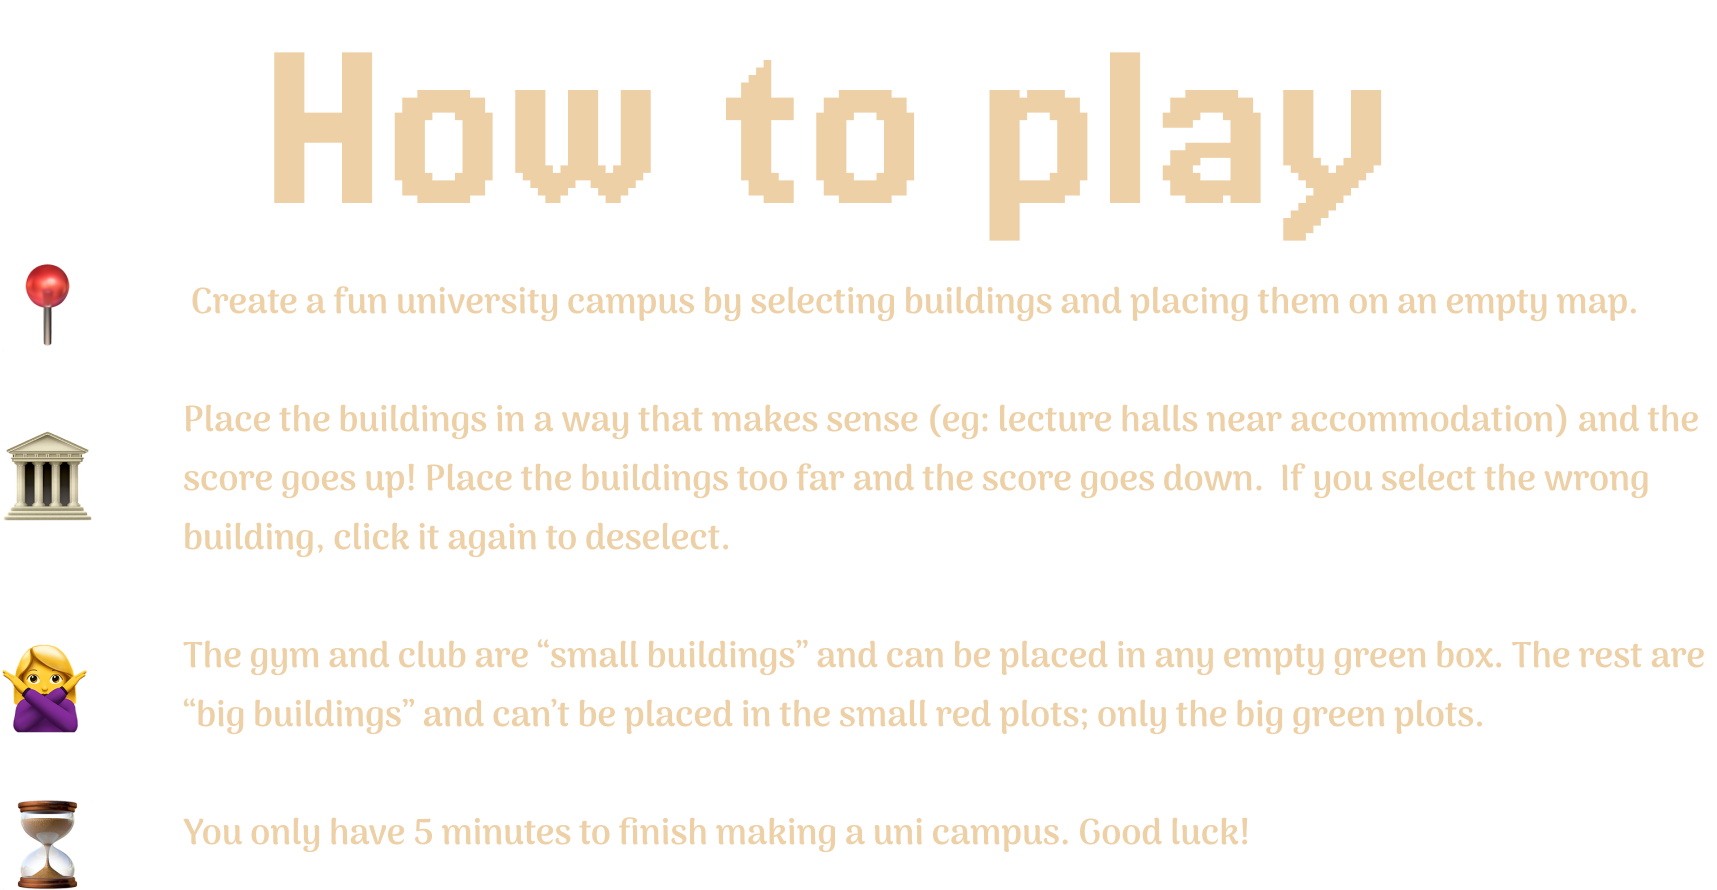
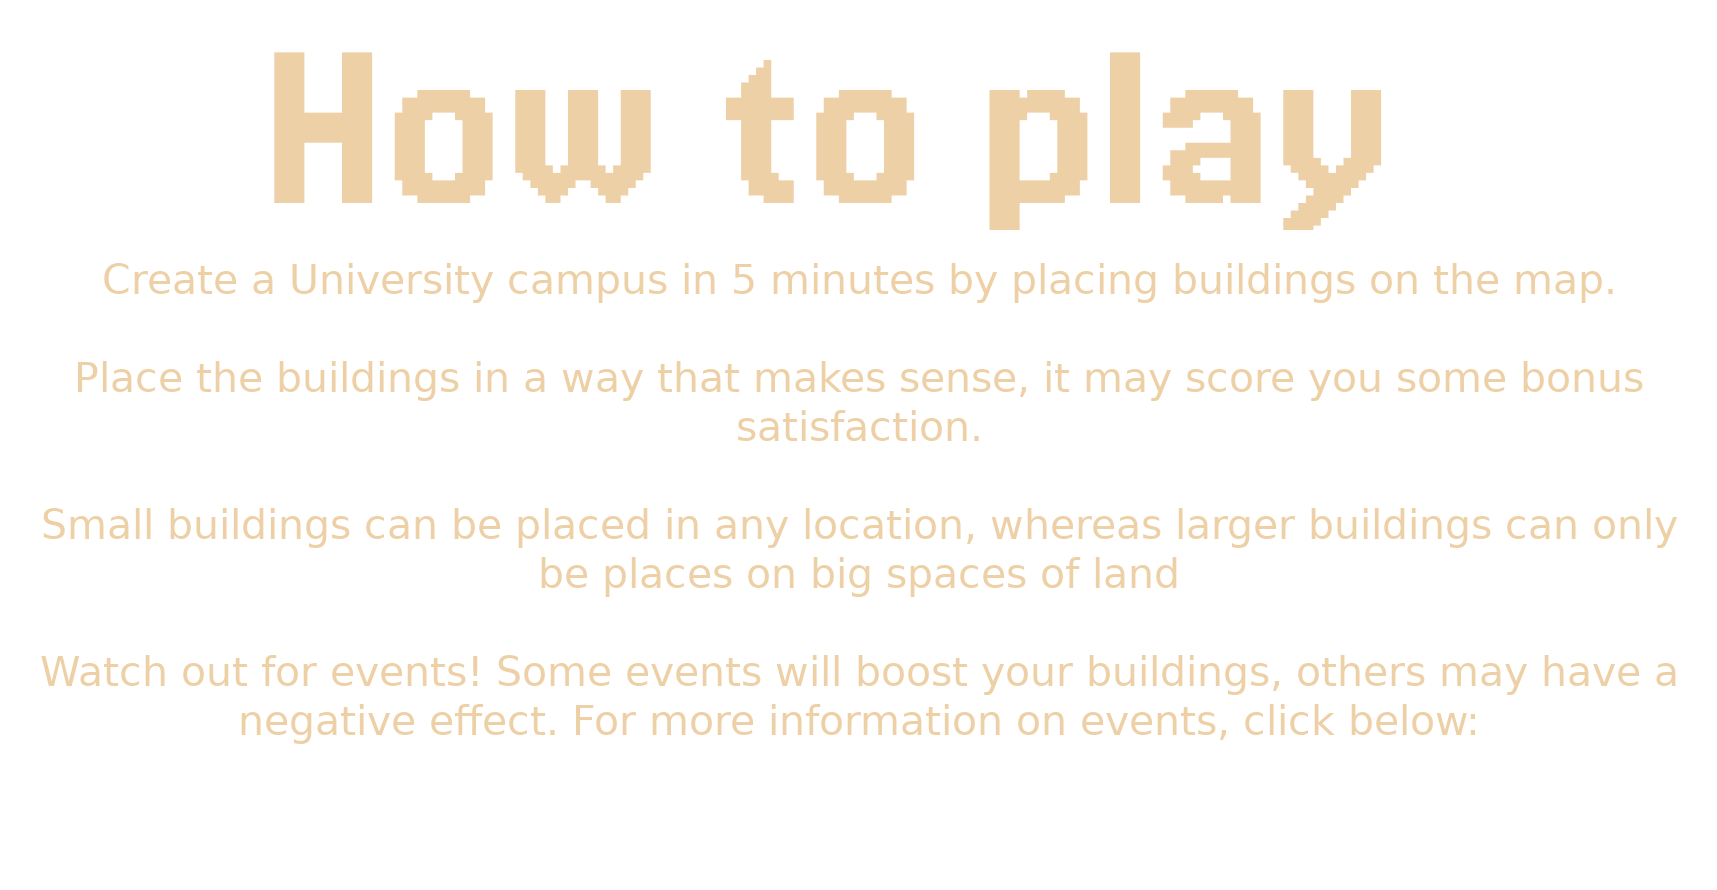
UI changes

diff --git a/core/src/main/java/com/unisim/game/Stages/TutorialStage.java b/core/src/main/java/com/unisim/game/Stages/TutorialStage.java
@@ -15,35 +15,70 @@ import com.unisim.game.main;
 public class TutorialStage extends Stage {
     private final main game;
 
+    // Buttons
+    private ImageButton backButtonTM;
+    private ImageButton eventsHelpButton;
 
-    /**Takes the player to {@code mainStage} from {@code tutorialStage}.*/
-    ImageButton backButtonTM;
+    // Image displayed for tutorial
+    private Image tutorialMenuText;
+
+    // State tracking
+    private boolean showingHowToPlay2 = false;
 
     public TutorialStage(main game) {
         this.game = game;
         initialize();
     }
-    /** Sets up the tutorial stage*/
-    public void initialize(){
-        // Sets up "back" button on tutorialStage
-            backButtonTM = new ImageButton(new TextureRegionDrawable(new TextureRegion(new Texture(Gdx.files.internal("buttons/BackButton.png")))));
+
+    /** Sets up the tutorial stage */
+    public void initialize() {
+        // Sets up "Back" button on tutorialStage
+        backButtonTM = new ImageButton(new TextureRegionDrawable(new TextureRegion(new Texture(Gdx.files.internal("buttons/BackNew.png")))));
         backButtonTM.addListener(new ClickListener() {
             @Override
             public void clicked(InputEvent event, float x, float y) {
-                game.setSceneId(1);
+                if (showingHowToPlay2) {
+                    tutorialMenuText.setDrawable(new TextureRegionDrawable(new TextureRegion(new Texture(Gdx.files.internal("text/HowToPlay.png")))));
+                    eventsHelpButton.setVisible(true);
+                    showingHowToPlay2 = false;
+                } else {
+                    game.setSceneId(1);
+                }
             }
         });
 
-        // Formats and adds button and text to tutorialStage.
-        backButtonTM.setPosition(Gdx.graphics.getWidth() / 2f - backButtonTM.getWidth() / 2,
-            Gdx.graphics.getHeight() / 2f - backButtonTM.getHeight() / 2);
-        Image tutorialMenuText = new Image(new Texture(Gdx.files.internal("text/HowToPlay.png")));
+        // Sets up "Events" button on tutorialStage
+        eventsHelpButton = new ImageButton(new TextureRegionDrawable(new TextureRegion(new Texture(Gdx.files.internal("buttons/EventsNew.png")))));
+        eventsHelpButton.addListener(new ClickListener() {
+            @Override
+            public void clicked(InputEvent event, float x, float y) {
+                tutorialMenuText.setDrawable(new TextureRegionDrawable(new TextureRegion(new Texture(Gdx.files.internal("text/HowToPlay2.png")))));
+                eventsHelpButton.setVisible(false);
+                showingHowToPlay2 = true;
+            }
+        });
+
+        // Sets up tutorial text image
+        tutorialMenuText = new Image(new Texture(Gdx.files.internal("text/HowToPlay.png")));
+
+        // Format and add buttons and text to the tutorial stage
         Table tutorialMenuTable = new Table();
         tutorialMenuTable.add(tutorialMenuText).width(1200f).height(700f);
         tutorialMenuTable.row();
-        tutorialMenuTable.add(backButtonTM);
-        tutorialMenuTable.setPosition(Gdx.graphics.getWidth() / 2f - tutorialMenuTable.getWidth() / 2,
-            Gdx.graphics.getHeight()/2f - tutorialMenuTable.getHeight() / 2);
+
+        // Add buttons in a sub-table for alignment
+        Table buttonTable = new Table();
+        buttonTable.add(backButtonTM).pad(10f);
+        buttonTable.add(eventsHelpButton).pad(10f);
+
+        tutorialMenuTable.add(buttonTable);
+
+        // Center the table on the screen
+        tutorialMenuTable.setPosition(
+            Gdx.graphics.getWidth() / 2f - tutorialMenuTable.getWidth() / 2,
+            Gdx.graphics.getHeight() / 2f - tutorialMenuTable.getHeight() / 2
+        );
+
         this.addActor(tutorialMenuTable);
     }
 }

diff --git a/core/src/main/java/com/unisim/game/Stages/MenuStage.java b/core/src/main/java/com/unisim/game/Stages/MenuStage.java
@@ -32,7 +32,7 @@ public class MenuStage extends Stage {
     private void initialize(){
 
         // Sets up "play" button on menuStage.
-        playImgButton = new ImageButton(new TextureRegionDrawable(new TextureRegion(new Texture(Gdx.files.internal("buttons/PlayButton.png")))));
+        playImgButton = new ImageButton(new TextureRegionDrawable(new TextureRegion(new Texture(Gdx.files.internal("buttons/PlayButtonNew.png")))));
         playImgButton.addListener(new ClickListener() {
             @Override
             public void clicked(InputEvent event, float x, float y) {
@@ -42,7 +42,7 @@ public class MenuStage extends Stage {
 
         // Sets up "leaderboard" button on menuStage.
 
-        leaderboardImgButton = new ImageButton(new TextureRegionDrawable(new TextureRegion(new Texture(Gdx.files.internal("buttons/Leaderboard.png")))));
+        leaderboardImgButton = new ImageButton(new TextureRegionDrawable(new TextureRegion(new Texture(Gdx.files.internal("buttons/LeaderboardNew.png")))));
         leaderboardImgButton.addListener(new ClickListener() {
             @Override
             public void clicked(InputEvent event, float x, float y) {
@@ -52,7 +52,7 @@ public class MenuStage extends Stage {
 
         // Sets up "acheivements" button on menuStage.
 
-        achievementsImgButton = new ImageButton(new TextureRegionDrawable(new TextureRegion(new Texture(Gdx.files.internal("buttons/Achievements.png")))));
+        achievementsImgButton = new ImageButton(new TextureRegionDrawable(new TextureRegion(new Texture(Gdx.files.internal("buttons/AchievementsNew.png")))));
         achievementsImgButton.addListener(new ClickListener() {
             @Override
             public void clicked(InputEvent event, float x, float y) {

diff --git a/core/src/main/java/com/unisim/game/Stages/MainStage.java b/core/src/main/java/com/unisim/game/Stages/MainStage.java
@@ -65,7 +65,7 @@ public class MainStage extends Stage {
 
     ParticleEffect rainEffect;
 
-    private float achievementAnimTime = 3f;
+    final float achievementAnimTime = 3f;
     private float animCurrentTime = 0f;
     private float xPos;
     private float animSpeed = 150;
@@ -224,8 +224,8 @@ public class MainStage extends Stage {
         timerTable.add(timeTextLabel);
 
         // Sets up pause and tutorial buttons.
-        pauseButton = new ImageButton(new TextureRegionDrawable(new TextureRegion(new Texture(Gdx.files.internal("buttons/PauseSquareButton.png")))));
-        tutorialButton = new ImageButton(new TextureRegionDrawable(new TextureRegion(new Texture(Gdx.files.internal("buttons/QuestionMark.png")))));
+        pauseButton = new ImageButton(new TextureRegionDrawable(new TextureRegion(new Texture(Gdx.files.internal("buttons/PauseNew.png")))));
+        tutorialButton = new ImageButton(new TextureRegionDrawable(new TextureRegion(new Texture(Gdx.files.internal("buttons/HelpNew.png")))));
         // Sets up listeners for the buttons, so the player can navigate between stages.
         pauseButton.addListener(new ClickListener() {
             @Override
@@ -245,7 +245,7 @@ public class MainStage extends Stage {
         // Formats mainStage
 
         miscTable = new Table();
-        miscTable.add(pauseButton);
+        miscTable.add(pauseButton).padLeft(50f);
         miscTable.add(tutorialButton);
         miscTable.row();
         miscTable.add(scoreTable);

diff --git a/core/src/main/java/com/unisim/game/Stages/PauseStage.java b/core/src/main/java/com/unisim/game/Stages/PauseStage.java
@@ -25,7 +25,7 @@ public class PauseStage extends Stage {
     /** Sets up the pause stage*/
     public void initialize(){
         // Sets up the "quit" button on pauseStage allowing the user to exit the application.
-        ImageButton quitButtonPM = new ImageButton(new TextureRegionDrawable(new TextureRegion(new Texture(Gdx.files.internal("buttons/Quit.png")))));
+        ImageButton quitButtonPM = new ImageButton(new TextureRegionDrawable(new TextureRegion(new Texture(Gdx.files.internal("buttons/QuitNew.png")))));
         quitButtonPM.addListener(new ClickListener() {
             @Override
             public void clicked(InputEvent event, float x, float y) {
@@ -34,7 +34,7 @@ public class PauseStage extends Stage {
         });
 
         // Sets up the "resume" button on pauseStage allowing user to continue playing the game.
-        playButtonPM = new ImageButton(new TextureRegionDrawable(new TextureRegion(new Texture(Gdx.files.internal("buttons/ResumeButton.png")))));
+        playButtonPM = new ImageButton(new TextureRegionDrawable(new TextureRegion(new Texture(Gdx.files.internal("buttons/ResumeNew.png")))));
         playButtonPM.addListener(new ClickListener() {
             @Override
             public void clicked(InputEvent event, float x, float y) {

diff --git a/core/src/main/java/com/unisim/game/Stages/EndTimeStage.java b/core/src/main/java/com/unisim/game/Stages/EndTimeStage.java
@@ -26,7 +26,7 @@ public class EndTimeStage extends Stage {
         // Sets up "Time up" text
         Image endTimeText = new Image(new Texture(Gdx.files.internal("text/TimeUpText.png")));
         // Sets up a quit button
-        ImageButton quitButtonTS = new ImageButton(new TextureRegionDrawable(new TextureRegion(new Texture("buttons/Quit.png"))));
+        ImageButton quitButtonTS = new ImageButton(new TextureRegionDrawable(new TextureRegion(new Texture("buttons/QuitNew.png"))));
         quitButtonTS.addListener(new ClickListener() {
             @Override
             public void clicked(InputEvent event, float x, float y) {
@@ -43,7 +43,7 @@ public class EndTimeStage extends Stage {
         saveTextField.setAlignment(Align.center);
 
         // Sets up a save Button
-        ImageButton saveButton = new ImageButton(new TextureRegionDrawable(new TextureRegion(new Texture("buttons/Save.png"))));
+        ImageButton saveButton = new ImageButton(new TextureRegionDrawable(new TextureRegion(new Texture("buttons/SaveNew.png"))));
         saveButton.setDisabled(true); // Initially disabled
 
         saveTextField.addListener(new InputListener() {

diff --git a/core/src/main/java/com/unisim/game/Stages/LeaderboardStage.java b/core/src/main/java/com/unisim/game/Stages/LeaderboardStage.java
@@ -30,7 +30,7 @@ public class LeaderboardStage extends Stage {
     /**Initialises the leaderboard scene*/
     public void initialize(){
         // Sets up a back button to take the user back to the menu scene
-        backLeaderboard = new ImageButton(new TextureRegionDrawable(new TextureRegion(new Texture(Gdx.files.internal("buttons/BackButton.png")))));
+        backLeaderboard = new ImageButton(new TextureRegionDrawable(new TextureRegion(new Texture(Gdx.files.internal("buttons/BackNew.png")))));
         backLeaderboard.addListener(new ClickListener() {
             @Override
             public void clicked(InputEvent event, float x, float y) {

diff --git a/core/src/main/java/com/unisim/game/Stages/AchievementsStage.java b/core/src/main/java/com/unisim/game/Stages/AchievementsStage.java
@@ -27,7 +27,7 @@ public class AchievementsStage extends Stage {
 
     public void initialize(){
         // Sets up achievements stage
-        backAchievements = new ImageButton(new TextureRegionDrawable(new TextureRegion(new Texture(Gdx.files.internal("buttons/BackButton.png")))));
+        backAchievements = new ImageButton(new TextureRegionDrawable(new TextureRegion(new Texture(Gdx.files.internal("buttons/BackNew.png")))));
         backAchievements.addListener(new ClickListener() {
             @Override
             public void clicked(InputEvent event, float x, float y) {

diff --git a/core/src/main/java/com/unisim/game/Events/gameEvents/Winter.java b/core/src/main/java/com/unisim/game/Events/gameEvents/Winter.java
@@ -8,10 +8,10 @@ public class Winter extends Event{
     /** Overrides the default bonus scores of the Event class*/
     @Override
     public void setBonusScores(){
-        lectureHallBonus = 2;
-        accommodationBonus = 10;
-        foodHallBonus = 2;
-        gymBonus = -2;
-        clubBonus = -2;
+        lectureHallBonus = 0;
+        accommodationBonus = 0;
+        foodHallBonus = 10;
+        gymBonus = 0;
+        clubBonus = 0;
     }
 }
